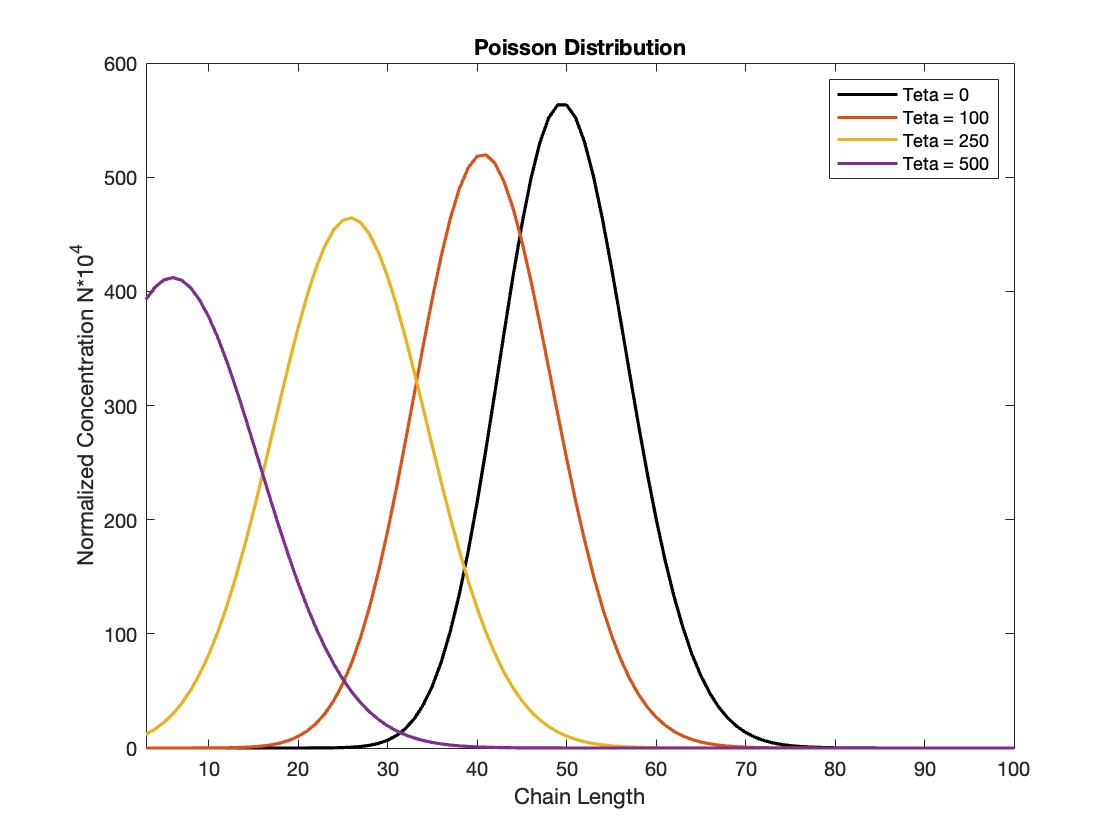
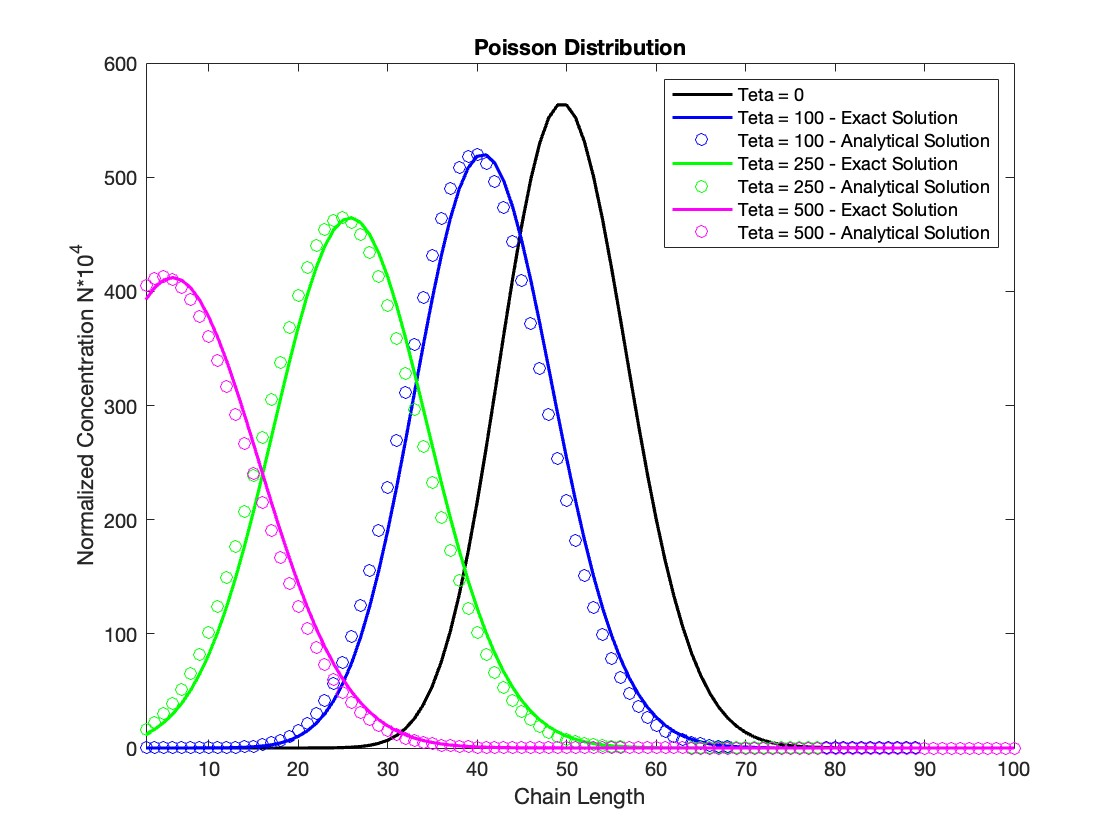
Add files via upload

diff --git a/PBE_Poisson.m b/PBE_Poisson.m
@@ -25,17 +25,52 @@ tetaspan = 0:1:500; %[s]
 
 [teta,P] = ode15s(@PBE, tetaspan, P0, options);
 
+%Analytical solution
+
+k=50; 
+
+teta_1=0.01:1:500;
+Pn_total=zeros(length(teta_1),100+1);
+for t=1:length(teta_1)
+ Pn_final=zeros(1,100+1);
+    for n=2:100 
+ 
+    Pn_it=0;
+    for i=n:100
+    Pn_old=Pn_it;
+        if i<n+k+1
+        Pn_in=P0(i)*(teta_1(t))^(i-n)/(factorial(i-n))*exp(-teta_1(t));
+        Pn_it=Pn_in+Pn_old;
+        else
+        Pn_in=P0(i)*1/(2*pi*teta_1(t))^0.5*exp(-(i-n-teta_1(t))^2/(2*teta_1(t)));
+        Pn_it=Pn_in+Pn_old;
+        end 
+    end
+ Pn_final(n)=Pn_it;
+end
+Pn_total(t,:)=Pn_final;
+end
+
+Pn_matrix=Pn_total(:,2:end);
+
+
 %% Plots
 
 figure(1)
 
 plot(chain_length, P0.*1e4, 'LineWidth',1.6, 'Color','black')
 hold on
-plot(chain_length, P(10,:).*1e4, 'LineWidth',1.6)
-plot(chain_length, P(25,:).*1e4, 'LineWidth',1.6)
-plot(chain_length, P(45,:).*1e4, 'LineWidth',1.6)
+plot(chain_length, P(10,:).*1e4, 'LineWidth',1.6, 'Color','blue')
+plot(chain_length,Pn_matrix(10,:).*1e4,"o",  'Color','blue')
+
+plot(chain_length, P(25,:).*1e4, 'LineWidth',1.6, 'Color','green')
+plot(chain_length,Pn_matrix(25,:).*1e4,"o", 'Color', 'green')
+
+plot(chain_length, P(45,:).*1e4, 'LineWidth',1.6, 'Color','magenta')
+plot(chain_length,Pn_matrix(45,:).*1e4,"o", 'Color','magenta')
+
 axis([3 100 0 600])
-legend('Teta = 0', 'Teta = 100','Teta = 250','Teta = 500')
+legend('Teta = 0', 'Teta = 100 - Exact Solution','Teta = 100 - Analytical Solution','Teta = 250 - Exact Solution','Teta = 250 - Analytical Solution','Teta = 500 - Exact Solution', 'Teta = 500 - Analytical Solution')
 title('Poisson Distribution')
 xlabel('Chain Length')
 ylabel('Normalized Concentration N*10^4')
@@ -67,4 +102,3 @@ end
 dPdteta(N) = -P(N);
 
 end
-
